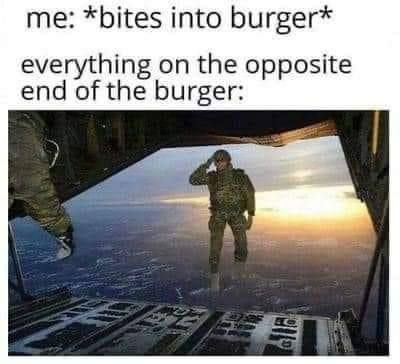
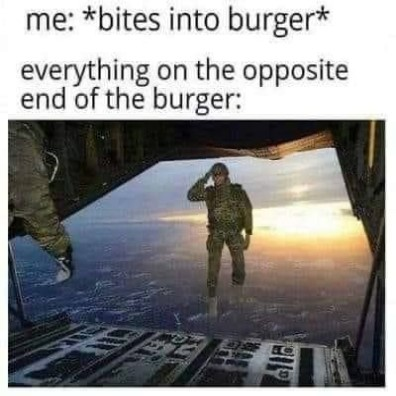
feat: update images sizes  ( Sun, Mar 12, 2023  6:55:39 PM )

diff --git a/cssBayan/style.css b/cssBayan/style.css
@@ -18,7 +18,7 @@ h1 {
 }
 
 .memes {
-  max-width: 70%;
+  max-width: 85%;
   margin: 0 auto;
 }
 
@@ -71,7 +71,7 @@ h1 {
 }
 
 .meme-radio:checked ~ .meme-img {
-  max-width: 70%;
+  max-width: 50%;
   padding: 1em 0;
   opacity: 1;
 }
@@ -109,7 +109,7 @@ h1 {
   }
 
   .meme-item:hover .meme-img {
-    max-width: 70%;
+    max-width: 50%;
     padding: 1em 0;
     opacity: 1;
   }
@@ -141,6 +141,10 @@ h1 {
 
   body {
     font-size: 1.5rem;
+  }
+
+  .memes {
+    max-width: 70%;
   }
 
 }
